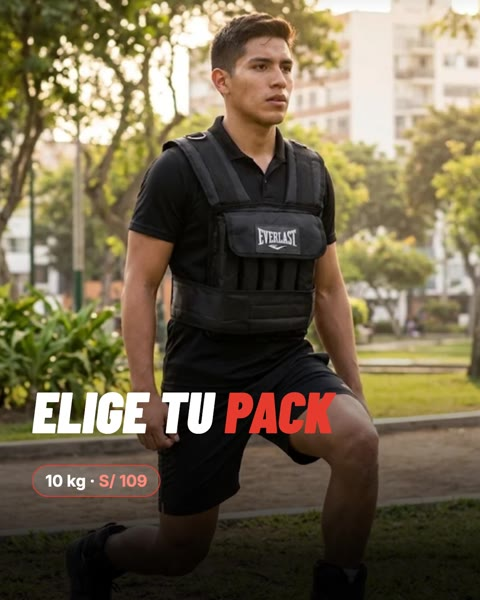
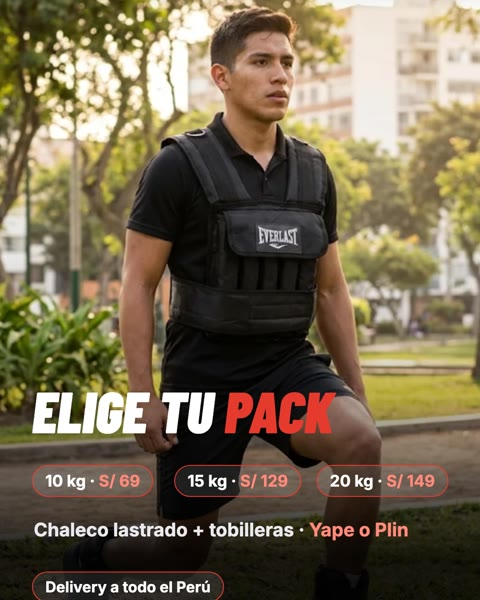
Web IG strip: link the re-published S/ 69 pack reel

diff --git a/public/index.html b/public/index.html
@@ -209,7 +209,7 @@
         </div>
       </div>
       <ul id="ig-strip" class="ig-strip">
-        <li><a class="ig-post" href="https://www.instagram.com/treno_peru/reel/DfpKu85nM73/" target="_blank" rel="noopener" aria-label="Reel de Instagram: Elige tu pack: chaleco lastrado 10, 15 o 20 kg desde S/ 69"><img src="assets/ig/ig-1.jpg" width="480" height="600" alt="" loading="lazy"><span class="ig-post__type" aria-hidden="true"><svg width="18" height="18" viewBox="0 0 24 24" fill="currentColor"><path d="M8 5v14l11-7z"/></svg></span></a></li>
+        <li><a class="ig-post" href="https://www.instagram.com/treno_peru/reel/DfpimyHEnEU/" target="_blank" rel="noopener" aria-label="Reel de Instagram: Elige tu pack: chaleco lastrado 10, 15 o 20 kg desde S/ 69"><img src="assets/ig/ig-1.jpg?v=2" width="480" height="600" alt="" loading="lazy"><span class="ig-post__type" aria-hidden="true"><svg width="18" height="18" viewBox="0 0 24 24" fill="currentColor"><path d="M8 5v14l11-7z"/></svg></span></a></li>
         <li><a class="ig-post" href="https://www.instagram.com/treno_peru/reel/Dfml6w2FAPw/" target="_blank" rel="noopener" aria-label="Reel de Instagram: 3 ejercicios con chaleco: sentadillas, zancadas y flexiones"><img src="assets/ig/ig-2.jpg" width="480" height="600" alt="" loading="lazy"><span class="ig-post__type" aria-hidden="true"><svg width="18" height="18" viewBox="0 0 24 24" fill="currentColor"><path d="M8 5v14l11-7z"/></svg></span></a></li>
         <li><a class="ig-post" href="https://www.instagram.com/treno_peru/reel/DfkBL__j1FA/" target="_blank" rel="noopener" aria-label="Reel de Instagram: Entrena en rosa: pack chaleco 10 kg + tobilleras 1 kg a S/ 69"><img src="assets/ig/ig-3.jpg" width="480" height="600" alt="" loading="lazy"><span class="ig-post__type" aria-hidden="true"><svg width="18" height="18" viewBox="0 0 24 24" fill="currentColor"><path d="M8 5v14l11-7z"/></svg></span></a></li>
         <li><a class="ig-post" href="https://www.instagram.com/treno_peru/reel/DfiyybgoReH/" target="_blank" rel="noopener" aria-label="Reel de Instagram: Entrena con más: pack chaleco 10 kg + tobilleras 1 kg a S/ 69"><img src="assets/ig/ig-4.jpg" width="480" height="600" alt="" loading="lazy"><span class="ig-post__type" aria-hidden="true"><svg width="18" height="18" viewBox="0 0 24 24" fill="currentColor"><path d="M8 5v14l11-7z"/></svg></span></a></li>
